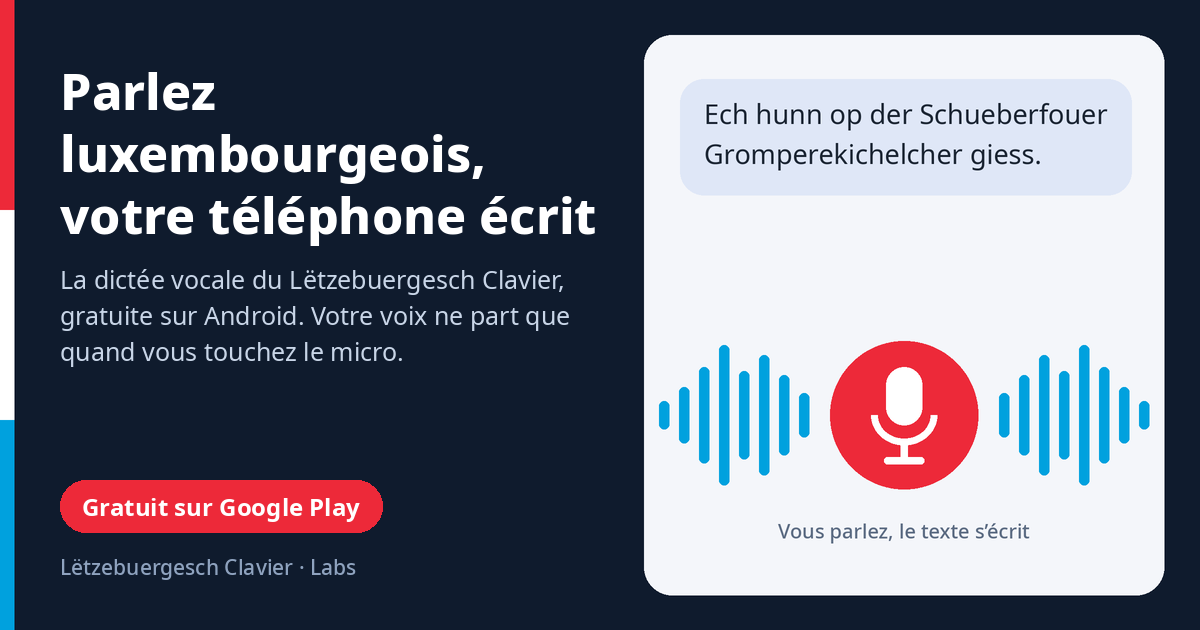
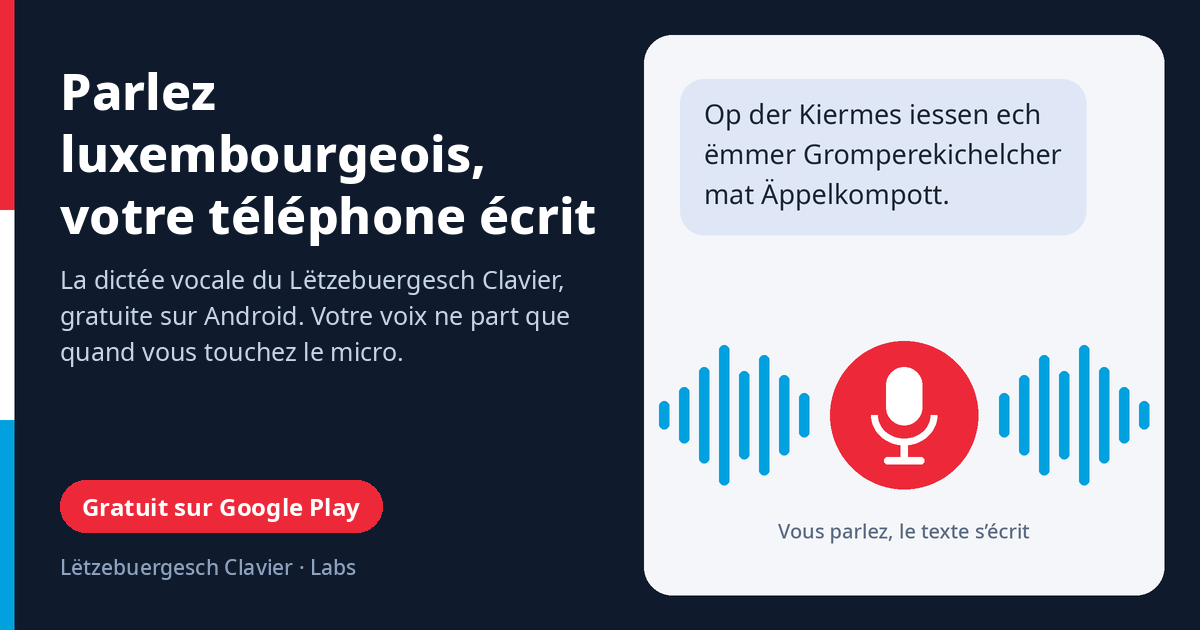
docs(site): la dictée affichée reprend l'exemple du LOD
Animation de dictée (Labs, nouveautés) et images de partage Labs fr/en :
« Op der Kiermes iessen ech ëmmer Gromperekichelcher mat Äppelkompott. »,
phrase d'exemple de l'article Gromperekichelchen du LOD, alignée sur la
capture Play Store. Textes alternatifs mis à jour.

Claude-Session: https://claude.ai/code/session_017v16GDU5NnmPUr6u9MBxF1

Changed region(s): [[0.5858, 0.1508, 0.925, 0.2714], [0.5858, 0.3016, 0.8017, 0.3317]]

diff --git a/docs/labs.html b/docs/labs.html
@@ -269,7 +269,7 @@ details.tech p{color:var(--ink-soft);font-size:14.5px;}
 
   <figure class="asr-capture">
     <img src="Screenshots/lux_dictee_reconstituee.gif"
-         alt="Téléphone entier sur émulateur Android, dictée dans un SMS : sous le bandeau LuxASR, la phrase « Moien, mir treffen eis muer um zwou Auer op der Schueberfouer. » apparaît en trois temps, puis le micro se referme"
+         alt="Téléphone entier sur émulateur Android, dictée dans un SMS : sous le bandeau LuxASR, la phrase « Op der Kiermes iessen ech ëmmer Gromperekichelcher mat Äppelkompott. » apparaît en trois temps, puis le micro se referme"
          data-i18n-alt="capture-alt"
          loading="lazy" width="420" height="943">
     <figcaption data-i18n="capture-figcaption">
@@ -579,7 +579,7 @@ details.tech p{color:var(--ink-soft);font-size:14.5px;}
     'keyboard-h2': 'The keyboard, with its dictation',
     'keyboard-p': "The keyboard below is the <a href=\"simulateur.html\">simulator</a>'s, with dictation already armed. The microphone transcribes Luxembourgish <strong>in real time</strong>, as on the phone; below it, a second panel shows what the service <strong>translates into French</strong>, sentence by sentence.",
     'iframe-title': 'Lëtzebuergesch keyboard, LuxASR dictation with translation',
-    'capture-alt': 'Whole phone screen on an Android emulator, dictating into a text message: under the LuxASR banner, the sentence « Moien, mir treffen eis muer um zwou Auer op der Schueberfouer. » appears in three steps, then the microphone closes',
+    'capture-alt': 'Whole phone screen on an Android emulator, dictating into a text message: under the LuxASR banner, the sentence « Op der Kiermes iessen ech ëmmer Gromperekichelcher mat Äppelkompott. » appears in three steps, then the microphone closes',
     'capture-figcaption': "On an Android emulator, in the Messages app: the text is written into the bubble as you speak, under the <strong>🌐 LuxASR</strong> banner.",
     'install-h2': 'Install and try it',
     'step1': '<strong>Install the keyboard</strong> with the button above, from your phone, or update it from Google Play: dictation comes with version 33.0.0.',

diff --git a/docs/labs-en.html b/docs/labs-en.html
@@ -19,7 +19,7 @@
 <meta property="og:image" content="https://famibelle.github.io/LuxKeyb/assets/og/partage-labs-en.png">
 <meta property="og:image:width" content="1200">
 <meta property="og:image:height" content="630">
-<meta property="og:image:alt" content="A red microphone and a sound wave, above the dictated sentence “Ech hunn op der Schueberfouer Gromperekichelcher giess.”">
+<meta property="og:image:alt" content="A red microphone and a sound wave, above the dictated sentence “Op der Kiermes iessen ech ëmmer Gromperekichelcher mat Äppelkompott.”">
 <meta name="twitter:card" content="summary_large_image">
 <meta http-equiv="refresh" content="0; url=labs.html?lang=en">
 <link rel="icon" type="image/x-icon" href="favicon.ico">
